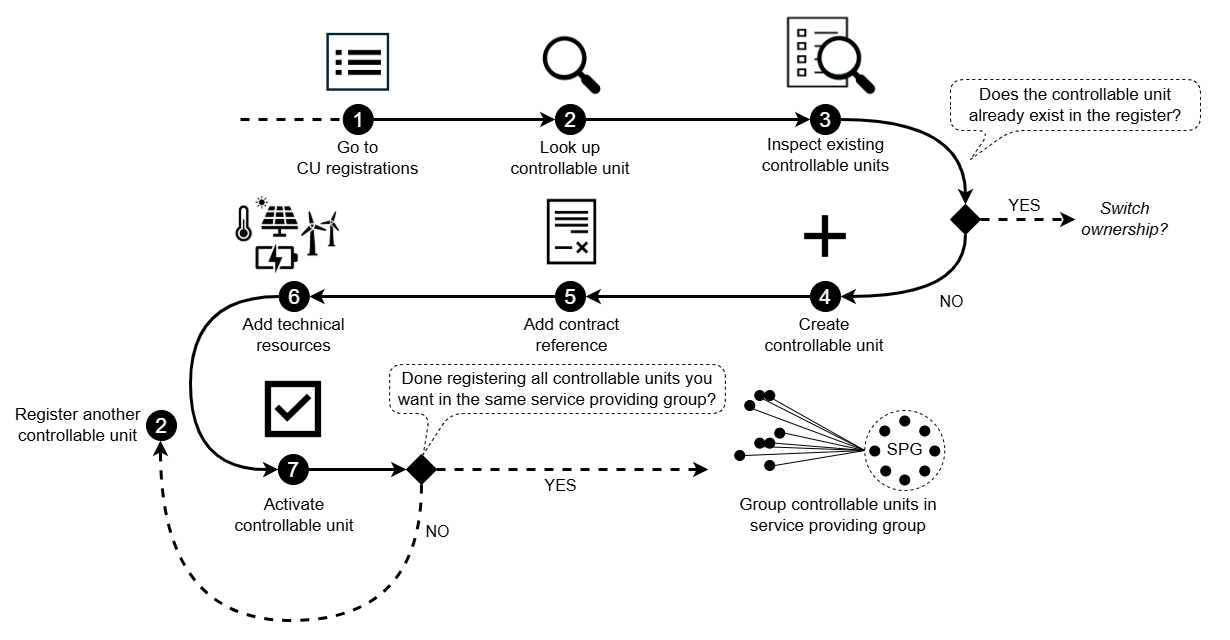
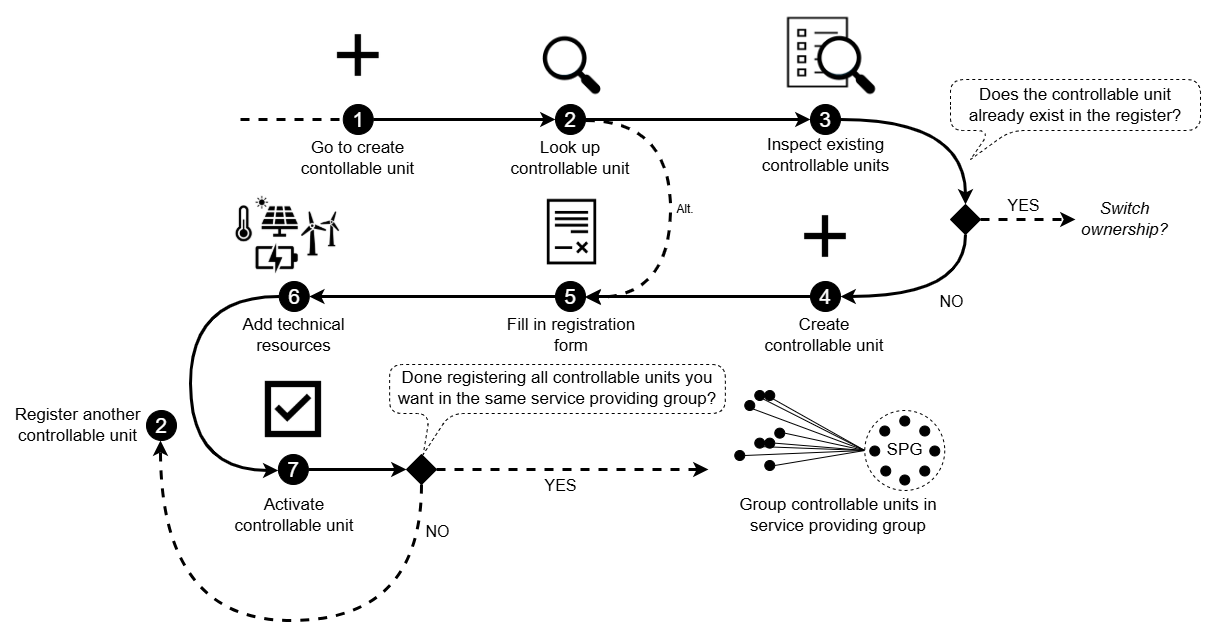
Deployed b8b4b16f with MkDocs version: 1.6.1

diff --git a/guides/get-ready-for-market/sp-cu-registration/index.html b/guides/get-ready-for-market/sp-cu-registration/index.html
@@ -1373,10 +1373,10 @@
     <ul class="md-nav__list" data-md-component="toc" data-md-scrollfix>
       
         <li class="md-nav__item">
-  <a href="#1-start-at-cu-registrations" class="md-nav__link">
+  <a href="#1-create-a-new-cu" class="md-nav__link">
     <span class="md-ellipsis">
       
-        1. Start at CU registrations
+        1. Create a new CU
       
     </span>
   </a>
@@ -1384,10 +1384,10 @@
 </li>
       
         <li class="md-nav__item">
-  <a href="#2-look-up-the-controllable-unit" class="md-nav__link">
+  <a href="#2-look-up-the-cu" class="md-nav__link">
     <span class="md-ellipsis">
       
-        2. Look up the controllable unit
+        2. Look up the CU
       
     </span>
   </a>
@@ -1395,10 +1395,10 @@
 </li>
       
         <li class="md-nav__item">
-  <a href="#3-check-if-the-controllable-unit-already-exists" class="md-nav__link">
+  <a href="#3-fill-in-cu-form" class="md-nav__link">
     <span class="md-ellipsis">
       
-        3. Check if the controllable unit already exists
+        3. Fill in CU form
       
     </span>
   </a>
@@ -1406,10 +1406,10 @@
 </li>
       
         <li class="md-nav__item">
-  <a href="#4-create-a-new-controllable-unit" class="md-nav__link">
+  <a href="#4-add-technical-resources" class="md-nav__link">
     <span class="md-ellipsis">
       
-        4. Create a new controllable unit
+        4. Add technical resources
       
     </span>
   </a>
@@ -1417,32 +1417,10 @@
 </li>
       
         <li class="md-nav__item">
-  <a href="#5-add-reference-to-the-enduser-contract" class="md-nav__link">
+  <a href="#5-activate-the-controllable-unit" class="md-nav__link">
     <span class="md-ellipsis">
       
-        5. Add reference to the end‑user contract
-      
-    </span>
-  </a>
-  
-</li>
-      
-        <li class="md-nav__item">
-  <a href="#6-add-technical-resources" class="md-nav__link">
-    <span class="md-ellipsis">
-      
-        6. Add technical resources
-      
-    </span>
-  </a>
-  
-</li>
-      
-        <li class="md-nav__item">
-  <a href="#7-activate-the-controllable-unit" class="md-nav__link">
-    <span class="md-ellipsis">
-      
-        7. Activate the controllable unit
+        5. Activate the controllable unit
       
     </span>
   </a>
@@ -3563,10 +3541,10 @@
     <ul class="md-nav__list" data-md-component="toc" data-md-scrollfix>
       
         <li class="md-nav__item">
-  <a href="#1-start-at-cu-registrations" class="md-nav__link">
+  <a href="#1-create-a-new-cu" class="md-nav__link">
     <span class="md-ellipsis">
       
-        1. Start at CU registrations
+        1. Create a new CU
       
     </span>
   </a>
@@ -3574,10 +3552,10 @@
 </li>
       
         <li class="md-nav__item">
-  <a href="#2-look-up-the-controllable-unit" class="md-nav__link">
+  <a href="#2-look-up-the-cu" class="md-nav__link">
     <span class="md-ellipsis">
       
-        2. Look up the controllable unit
+        2. Look up the CU
       
     </span>
   </a>
@@ -3585,10 +3563,10 @@
 </li>
       
         <li class="md-nav__item">
-  <a href="#3-check-if-the-controllable-unit-already-exists" class="md-nav__link">
+  <a href="#3-fill-in-cu-form" class="md-nav__link">
     <span class="md-ellipsis">
       
-        3. Check if the controllable unit already exists
+        3. Fill in CU form
       
     </span>
   </a>
@@ -3596,10 +3574,10 @@
 </li>
       
         <li class="md-nav__item">
-  <a href="#4-create-a-new-controllable-unit" class="md-nav__link">
+  <a href="#4-add-technical-resources" class="md-nav__link">
     <span class="md-ellipsis">
       
-        4. Create a new controllable unit
+        4. Add technical resources
       
     </span>
   </a>
@@ -3607,32 +3585,10 @@
 </li>
       
         <li class="md-nav__item">
-  <a href="#5-add-reference-to-the-enduser-contract" class="md-nav__link">
+  <a href="#5-activate-the-controllable-unit" class="md-nav__link">
     <span class="md-ellipsis">
       
-        5. Add reference to the end‑user contract
-      
-    </span>
-  </a>
-  
-</li>
-      
-        <li class="md-nav__item">
-  <a href="#6-add-technical-resources" class="md-nav__link">
-    <span class="md-ellipsis">
-      
-        6. Add technical resources
-      
-    </span>
-  </a>
-  
-</li>
-      
-        <li class="md-nav__item">
-  <a href="#7-activate-the-controllable-unit" class="md-nav__link">
-    <span class="md-ellipsis">
-      
-        7. Activate the controllable unit
+        5. Activate the controllable unit
       
     </span>
   </a>
@@ -3683,34 +3639,30 @@ guide, check the <a href="../../../api/guides/sp-cu-registration/">companion gui
 <a href="../../../processes/controllable-unit-registration/">register a controllable unit</a>
 in the FIS.</p>
 <p><img alt="SP CU registration path" src="../../../diagrams/sp_cu_registration.drawio.png" /></p>
-<h2 id="1-start-at-cu-registrations">1. Start at CU registrations</h2>
-<p>Begin by navigating to CU registrations.
-This is where the <a href="../../../processes/controllable-unit-registration/">CU registration</a>
-process starts.</p>
-<h2 id="2-look-up-the-controllable-unit">2. Look up the controllable unit</h2>
-<p>Before creating a new controllable unit, ensure that it does <strong>not</strong> already
-exist in the register by performing the <a href="../../../processes/controllable-unit-lookup/">CU lookup</a>
-process.</p>
-<p>This process also confirms that the accounting point belongs to the end user.
-The end user ID is required in order to prevent unauthorized use of the lookup function.</p>
-<h2 id="3-check-if-the-controllable-unit-already-exists">3. Check if the controllable unit already exists</h2>
-<p>Inspect the list of CUs at the accounting point:</p>
-<ul>
-<li>If the CU does <strong>not</strong> appear → proceed to <code>Create a new controllable unit</code>.</li>
-<li>If the CU <strong>does</strong> appear → the CU is already registered.
-  <em>If the CU is receiving a new contract to switch service provider, follow the
-  <a href="../../../processes/service-provider-switching/">service provider switching process</a>.</em></li>
-</ul>
-<h2 id="4-create-a-new-controllable-unit">4. Create a new controllable unit</h2>
-<p>Create a new controllable unit and provide the required information as described
-in the portal.</p>
+<h2 id="1-create-a-new-cu">1. Create a new CU</h2>
+<p>To create a new CU, click <strong>create new</strong> from the dashboard or navigate to
+<strong>Controllable units</strong> on the menu and select <strong>create</strong></p>
+<p>This is where the <a href="../../../processes/controllable-unit-registration/">CU registration</a> process begins.</p>
+<h2 id="2-look-up-the-cu">2. Look up the CU</h2>
+<p>The first step in the registration flow is the <a href="../../../processes/controllable-unit-lookup/">CU lookup</a>
+process. This process is done to ensure that the CU does <strong>not</strong> already exist
+in the register.</p>
+<p>The lookup process also verifies that the accounting point belongs to the end user.
+An end user ID is required to prevent unauthorized use of the lookup function.</p>
+<p>If no CUs are registered on the accounting point, you will automatically continue
+to the CU creation step.</p>
+<p>If one or more CUs are already registered on the accounting point, the lookup process
+will return a list of the existing CUs. Review the list to determine whether
+the CU has already been registered. If it has not, you can continue creating a new
+CU.</p>
+<p>If the CU is registered by a different service provider and the end user has changed
+service provider, follow the <a href="../../../processes/service-provider-switching/">service provider switching process</a>.</p>
+<h2 id="3-fill-in-cu-form">3. Fill in CU form</h2>
+<p>Provide the required information about the CU as described in the portal.</p>
 <div class="admonition note">
 <p class="admonition-title">Note</p>
 <p>The information required supports several processes:</p>
 <ul>
-<li><a href="../../../processes/controllable-unit-registration/">Grid validation</a>:
-It enables the system operator to assess whether the CU can operate safely
-within the grid.</li>
 <li><a href="../../../processes/service-providing-group-registration/">SPG registration</a>:
 It ensures that the CU can be correctly linked to a service providing group (SPG),
 which determines how the CU will participate in flexibility markets.</li>
@@ -3720,18 +3672,7 @@ since the technical characteristics of the CU affect the overall
 delivery potential of the group.</li>
 </ul>
 </div>
-<h2 id="5-add-reference-to-the-enduser-contract">5. Add reference to the end‑user contract</h2>
-<p>The <a href="../../../resources/controllable_unit_service_provider/">contract reference</a>
-between the service provider and the end user needs to be registered.</p>
-<p>The contract establishes the service provider’s right to control the CU and
-functions as the authorization mechanism within the register. This enables the
-service provider to manage the CU in the system.</p>
-<div class="admonition note">
-<p class="admonition-title">Note</p>
-<p>It is not possible to add contracts with start dates in the future when
-registering a new CU.</p>
-</div>
-<h2 id="6-add-technical-resources">6. Add technical resources</h2>
+<h2 id="4-add-technical-resources">4. Add technical resources</h2>
 <p>The next step is to add <a href="../../../resources/technical_resource/">technical resources</a>,
 which represent the assets that the controllable unit consists of.</p>
 <p>A controllable unit may contain several technical resources, and each must be
@@ -3746,18 +3687,17 @@ performing product prequalification.</li>
 similar technical resources.</li>
 </ul>
 </div>
-<h2 id="7-activate-the-controllable-unit">7. Activate the controllable unit</h2>
+<h2 id="5-activate-the-controllable-unit">5. Activate the controllable unit</h2>
 <p>The controllable unit is now registered in the FIS, but it is only visible for the
 SP that has registered it because it has not been activated.</p>
-<p>Review all information to ensure everything is correct before activating the
-controllable unit.</p>
-<p>When a controllable unit is activated, the connecting system operator is notified.
-The connecting system operator will grid validate the controllable unit.</p>
-<p>The system operator sets a grid validation status and the service provider is notified
-of the status. The status is registered on the controllable unit.</p>
+<p>Activating the controllable unit will allow you to add it to service providing groups.</p>
+<p>Ensure the following before activating:</p>
+<ul>
+<li>all technical resources have been added</li>
+<li>data is correct</li>
+</ul>
 <h2 id="next-step-grouping-controllable-units-in-a-service-providing-group">Next step: Grouping controllable units in a service providing group</h2>
-<p>Once the CU is registered, it can be added to a service providing group (SPG) -
-also before the CU is grid validated.</p>
+<p>Once the CU is registered, it can be added to a service providing group (SPG).</p>
 <p>You may choose between two valid workflows:</p>
 <ol>
 <li>

diff --git a/guides/get-ready-for-market/sp-spg-registration/index.html b/guides/get-ready-for-market/sp-spg-registration/index.html
@@ -3614,7 +3614,8 @@ provider must go through to
 in the FIS portal.</p>
 <p><img alt="SP SPG registration path" src="../../../diagrams/sp-spg-registration.drawio.png" /></p>
 <h2 id="1-start-at-spg-registrations">1. Start at SPG registrations</h2>
-<p>Begin by navigating to SPG registrations.<br />
+<p>Begin by navigating to SPG registrations or choose to create a new service
+providing group from the dashboard.<br />
 This is the entry point for <a href="../../../processes/service-providing-group-registration/">grouping of controllable units</a>.</p>
 <h2 id="2-create-a-new-service-providing-group">2. Create a new service providing group</h2>
 <p>Before creating an SPG, it is important to consider what the SPG will be used for.
@@ -3647,11 +3648,12 @@ a certain product.</li>
 <p>The service providing group is now registered in the FIS and the controllable units
 have been added, but the service providing group is only visible for the SP because
 it has not been activated.</p>
-<p>Review all information to ensure everything is correct before activating the SPG.</p>
-<p>When a service providing group is activated, the impacted system operator(s) are
-notified. The impacted system operator will grid prequalify the SPG.</p>
-<p>The system operator sets a grid prequalification status and the SP is notified of
-the status. The status is registered on the SPG.</p>
+<p>Activating the service providing group will allow it to be used in a product application</p>
+<p>Ensure the following before activating:</p>
+<ul>
+<li>all controllable units have been added</li>
+<li>data is correct</li>
+</ul>
 <h2 id="next-step-apply-for-service-providing-group-product-prequalification">Next step: Apply for service providing group product prequalification</h2>
 <p>Once the SPG is registered with CUs, the service provider can apply for
 <a href="../../../processes/service-providing-group-product-application/">SPG product prequalification</a>.</p>